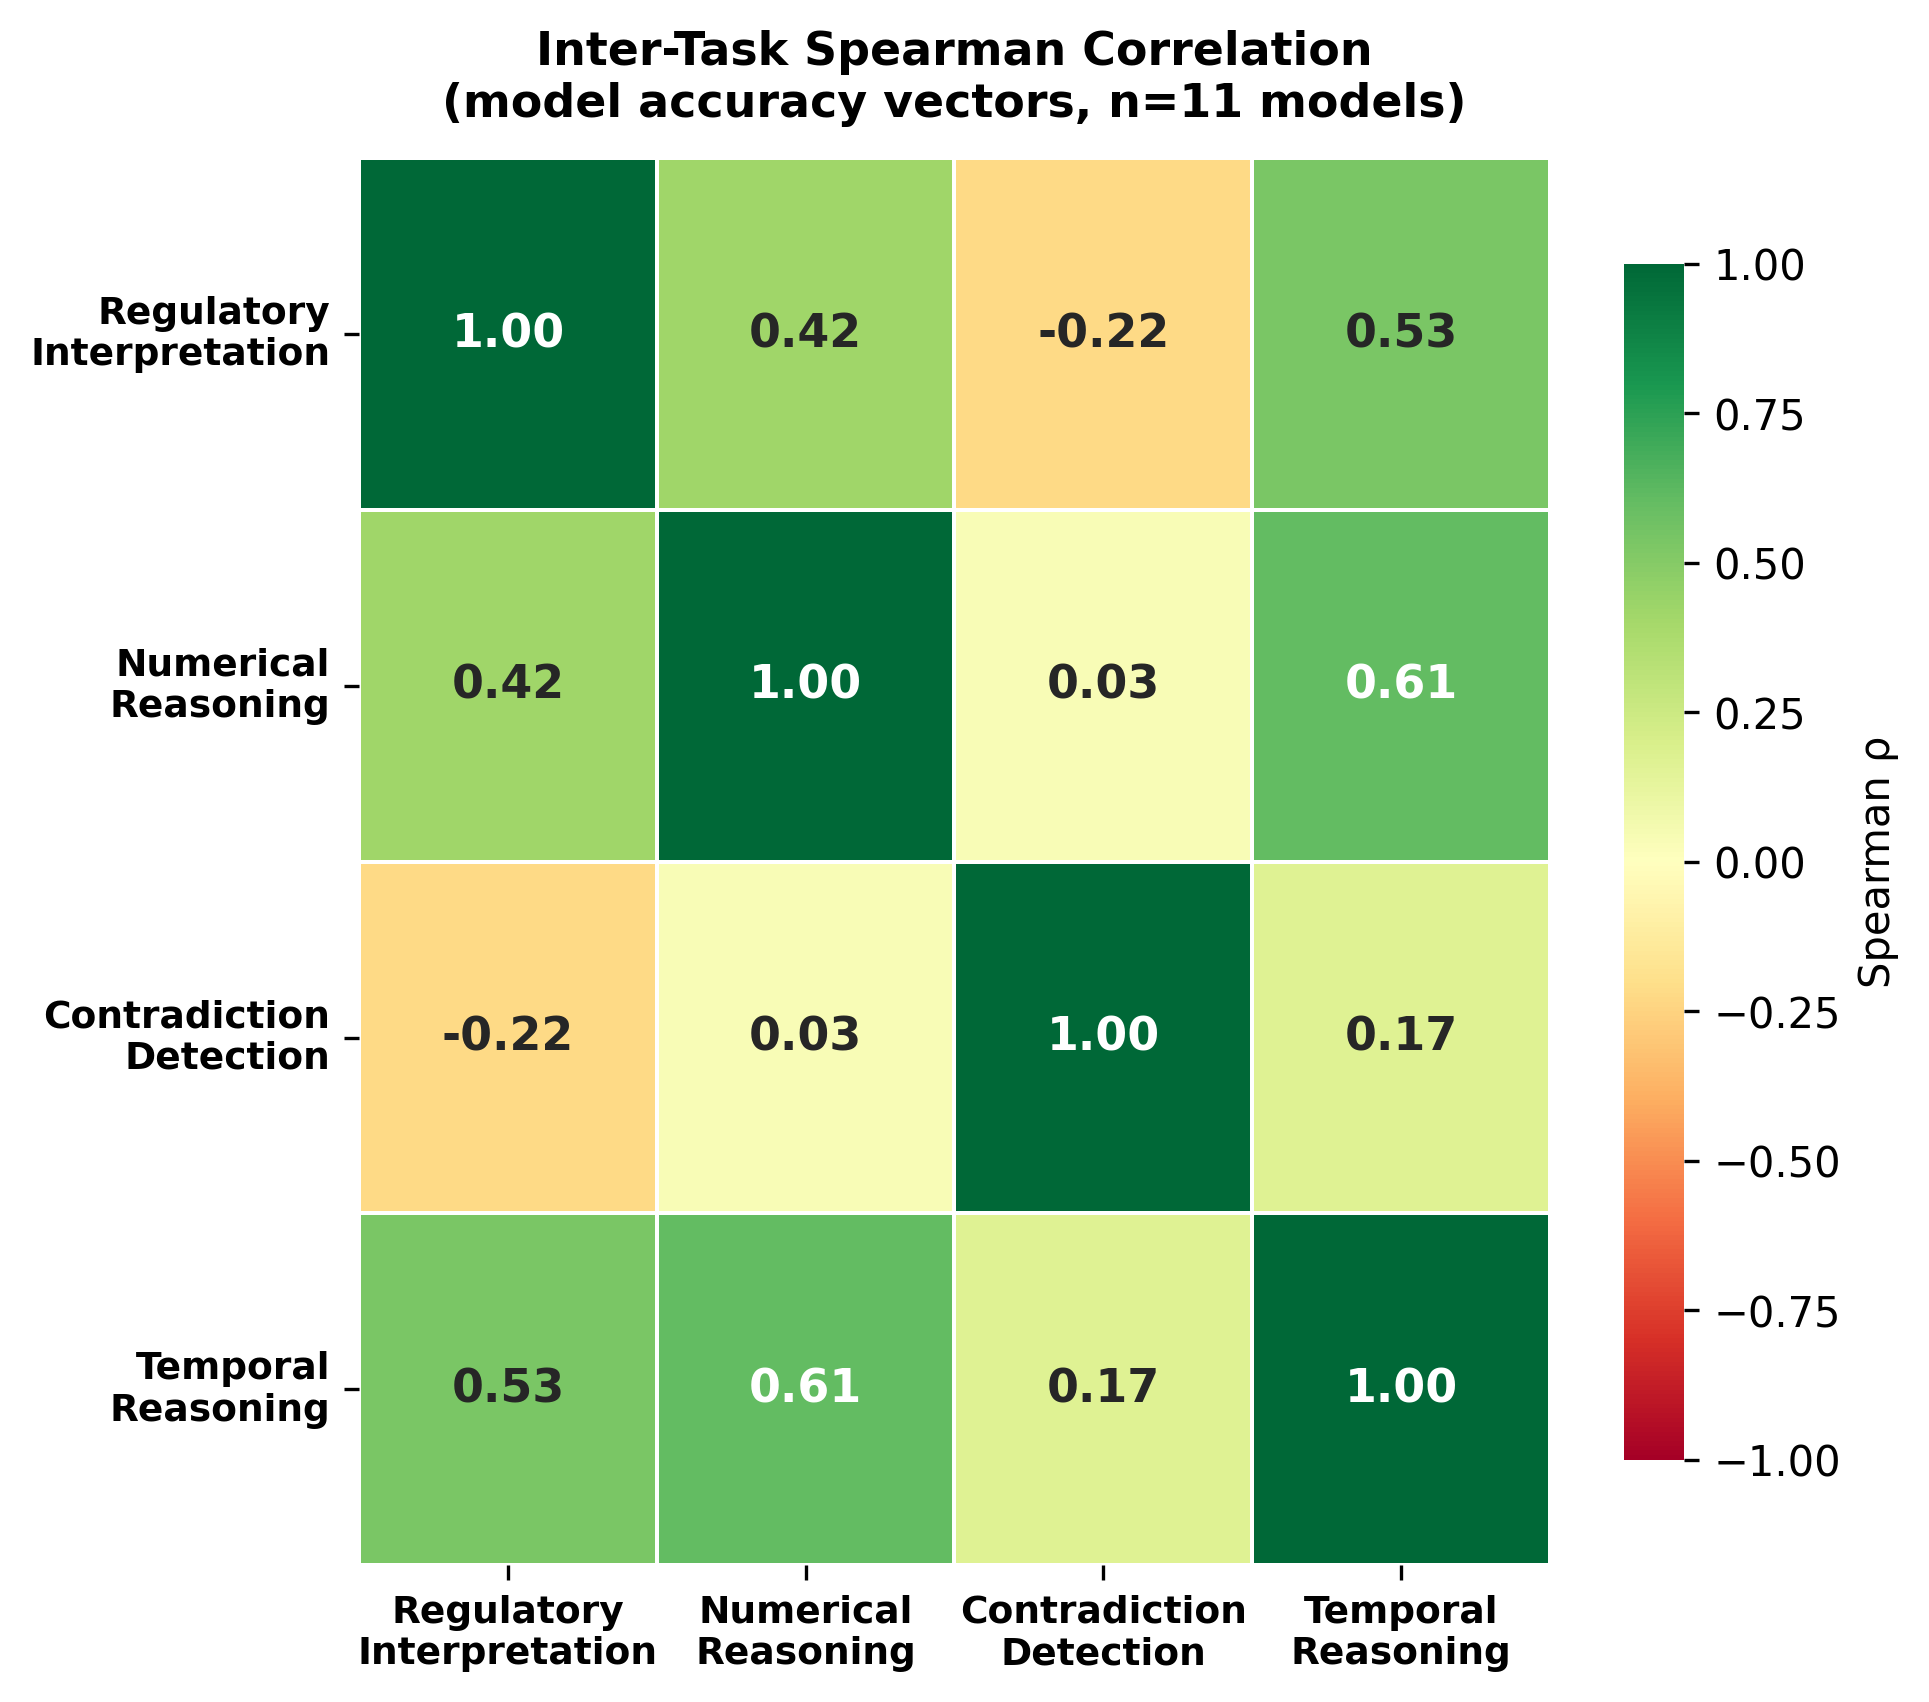
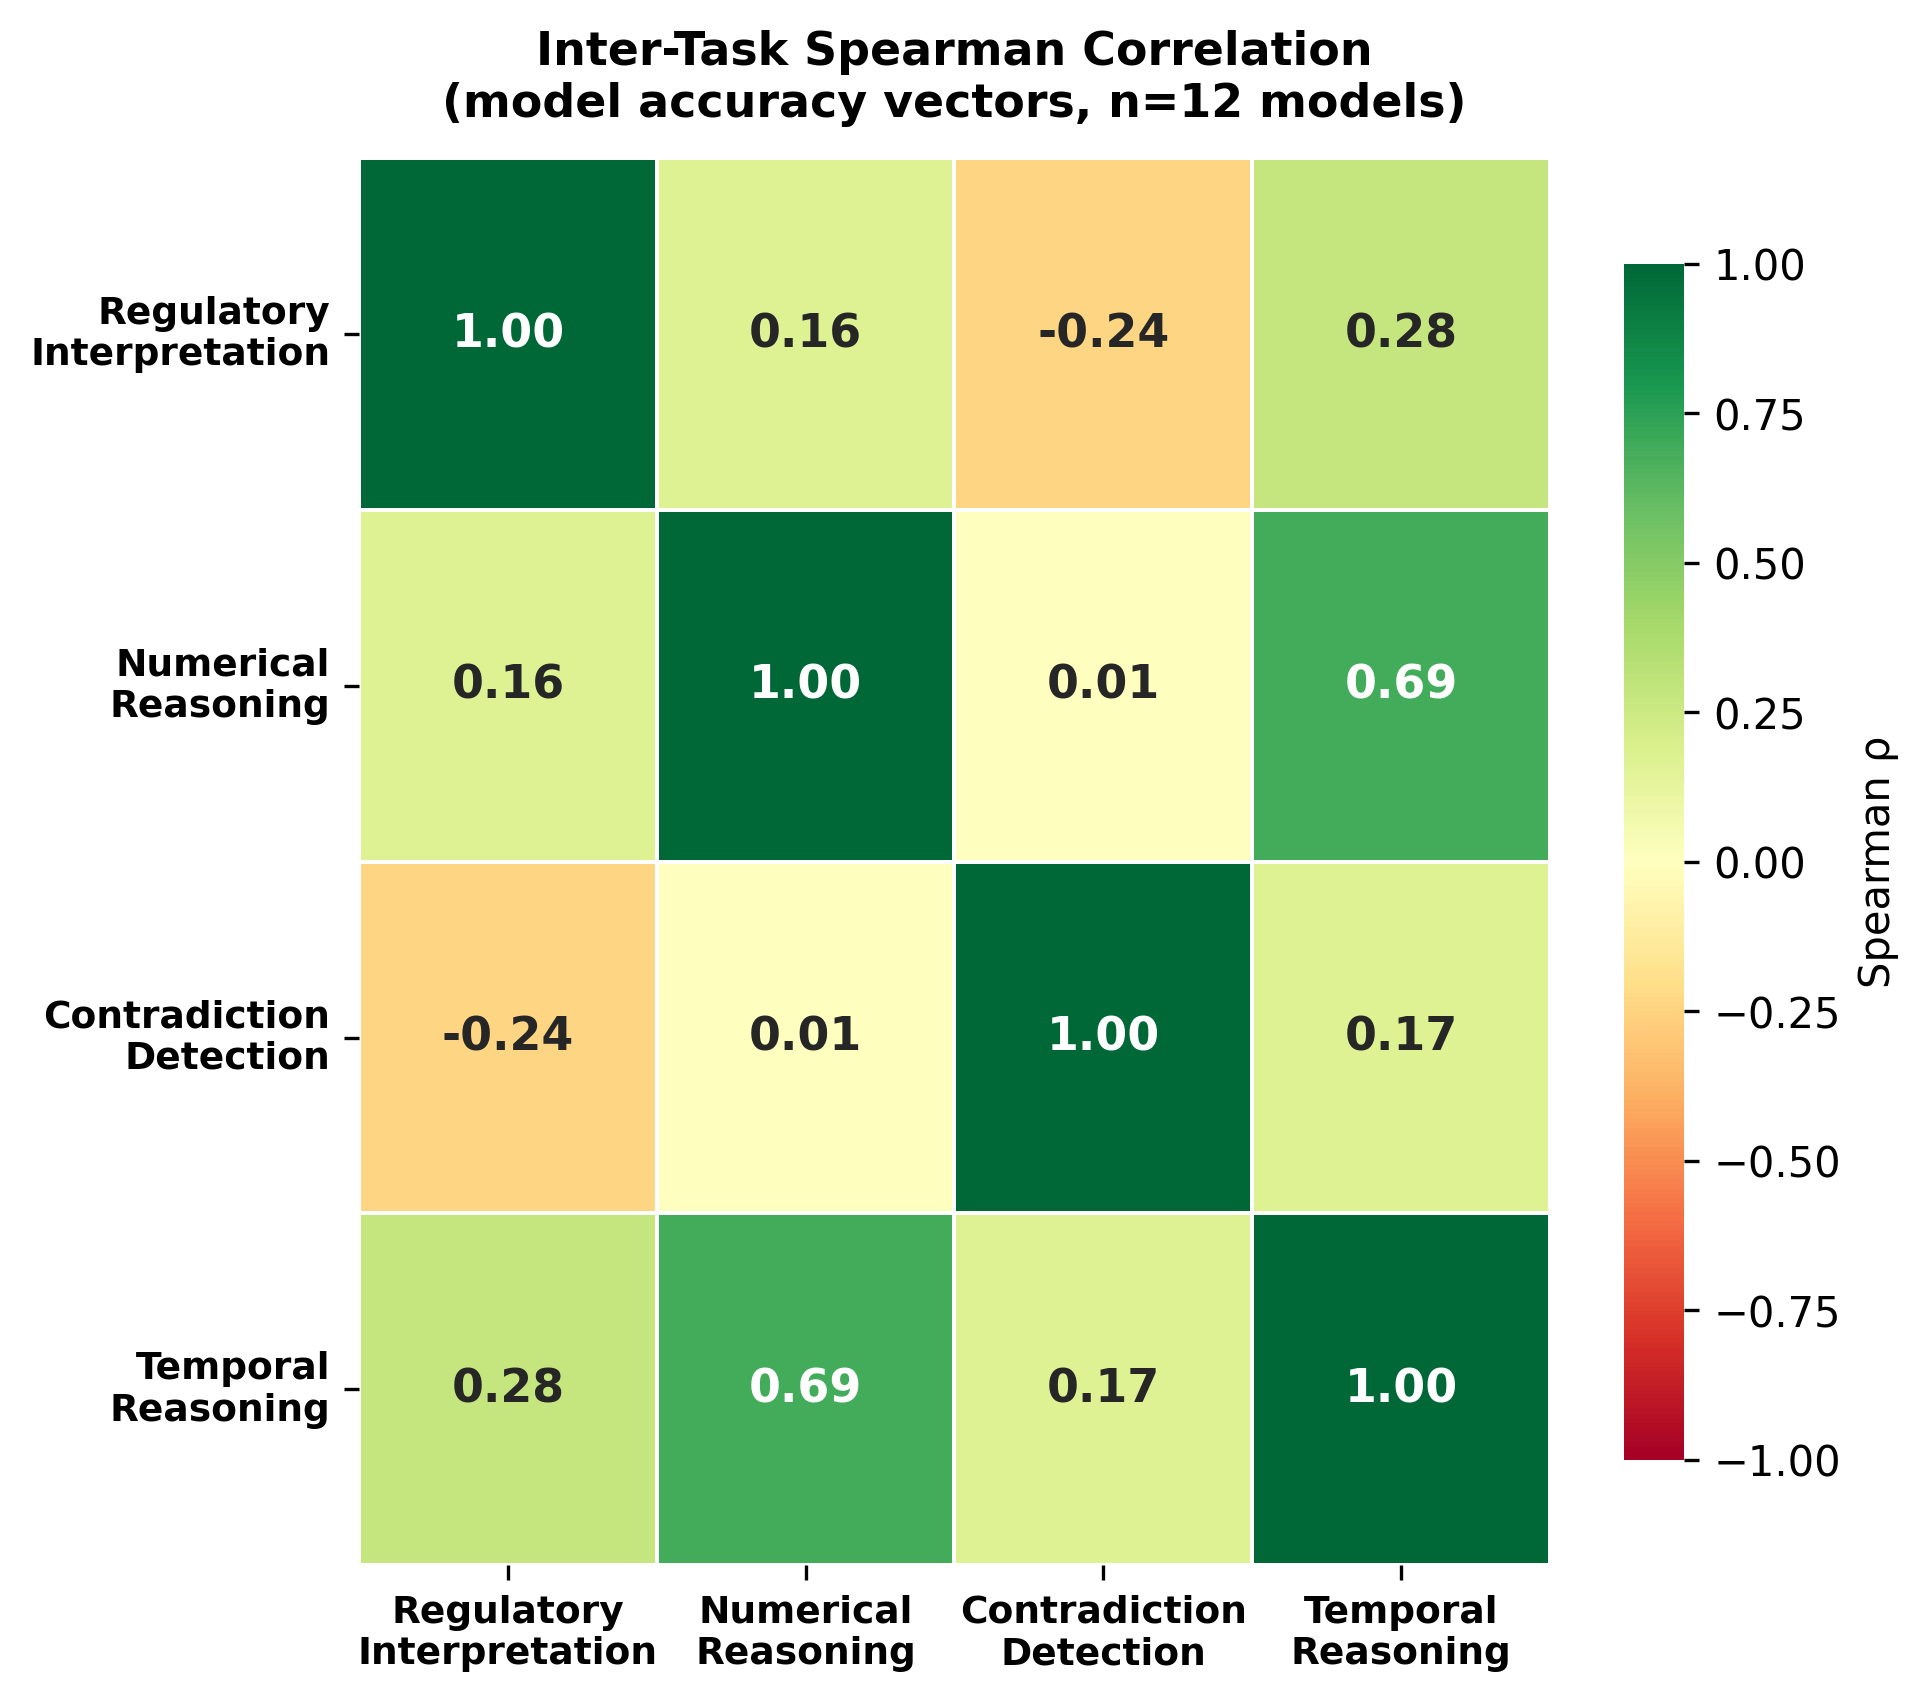
chore(figures): regenerate radar, difficulty, and correlation figures for 12 models
Verified all hardcoded values matched the data before regenerating; this
closes the same drift risk as the heatmap fix even though no mismatch was
found this time.

diff --git a/scripts/generate_figures.py b/scripts/generate_figures.py
@@ -51,6 +51,7 @@ os.makedirs(EVAL_OUT, exist_ok=True)
 # Ordered by overall accuracy (highest first)
 MODEL_FILES = {
     'Gemini 2.5 Flash':    'gemini_results.csv',
+    'Gemini 2.5 Pro':      'gemini25_pro_results.csv',
     'Qwen3-32B':           'qwen3_32b_results.csv',
     'LLaMA-3.3-70B':       'groq70b_results.csv',
     'Llama 4 Scout 17B':   'llama4scout_results.csv',
@@ -331,7 +332,7 @@ for i, model in enumerate(MODELS):
 
 # Shorten model names for y-axis
 short_names = [
-    'Gemini 2.5 Flash', 'Qwen3-32B', 'LLaMA-3.3-70B', 'Llama 4 Scout',
+    'Gemini 2.5 Flash', 'Gemini 2.5 Pro', 'Qwen3-32B', 'LLaMA-3.3-70B', 'Llama 4 Scout',
     'Kimi K2', 'LLaMA-3-8B', 'GPT-OSS 120B', 'GPT-OSS 20B',
     'Mistral-7B', 'DeepSeek R1', 'Gemma 4 E4B',
 ]
